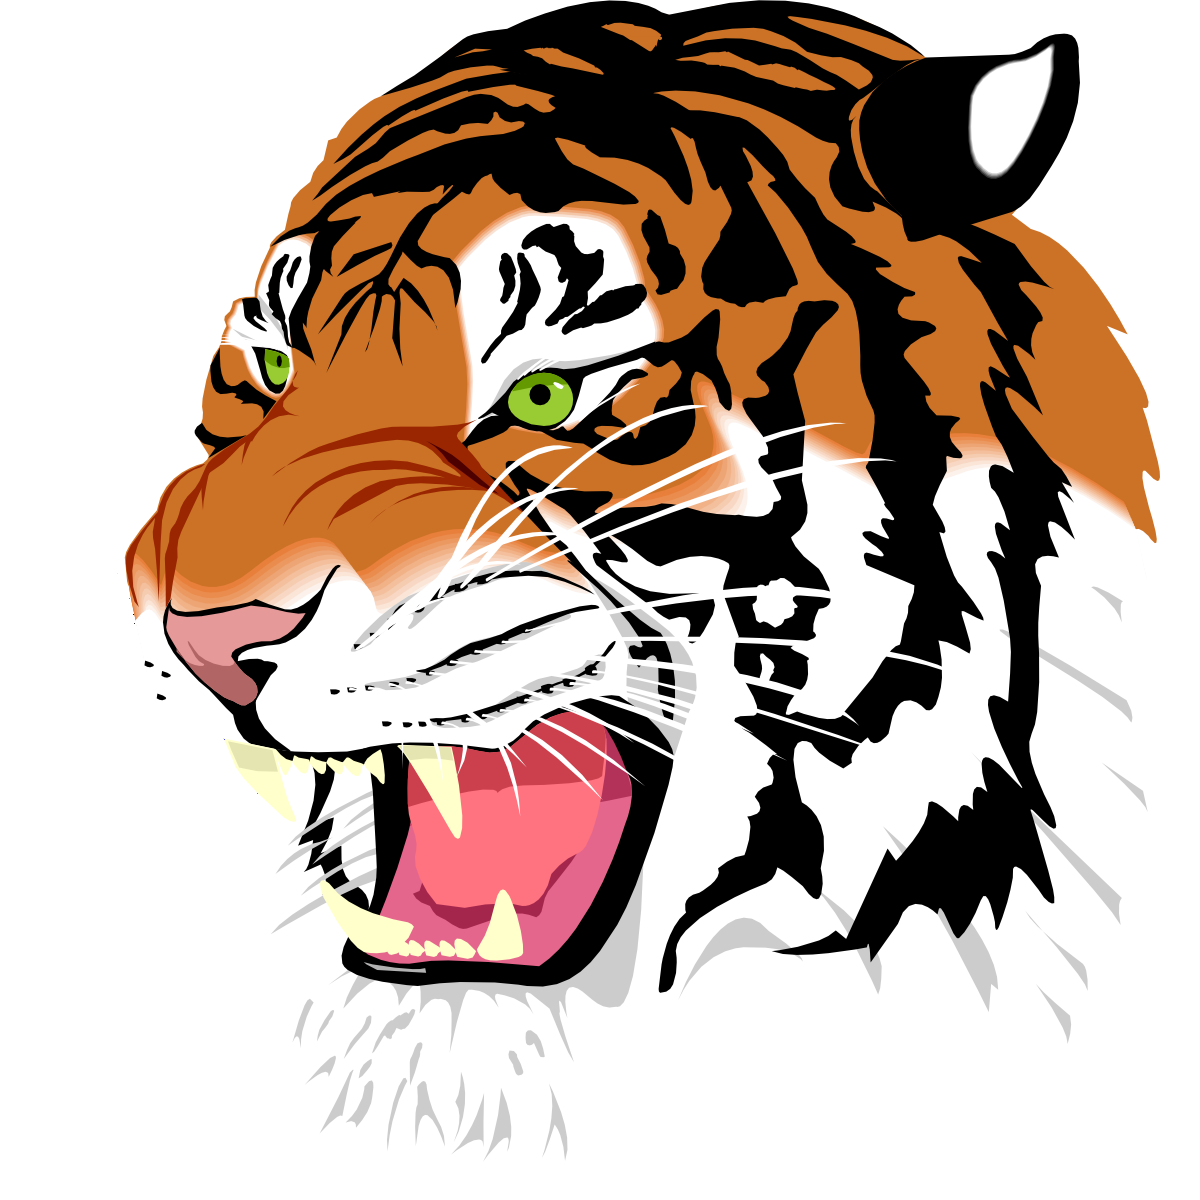
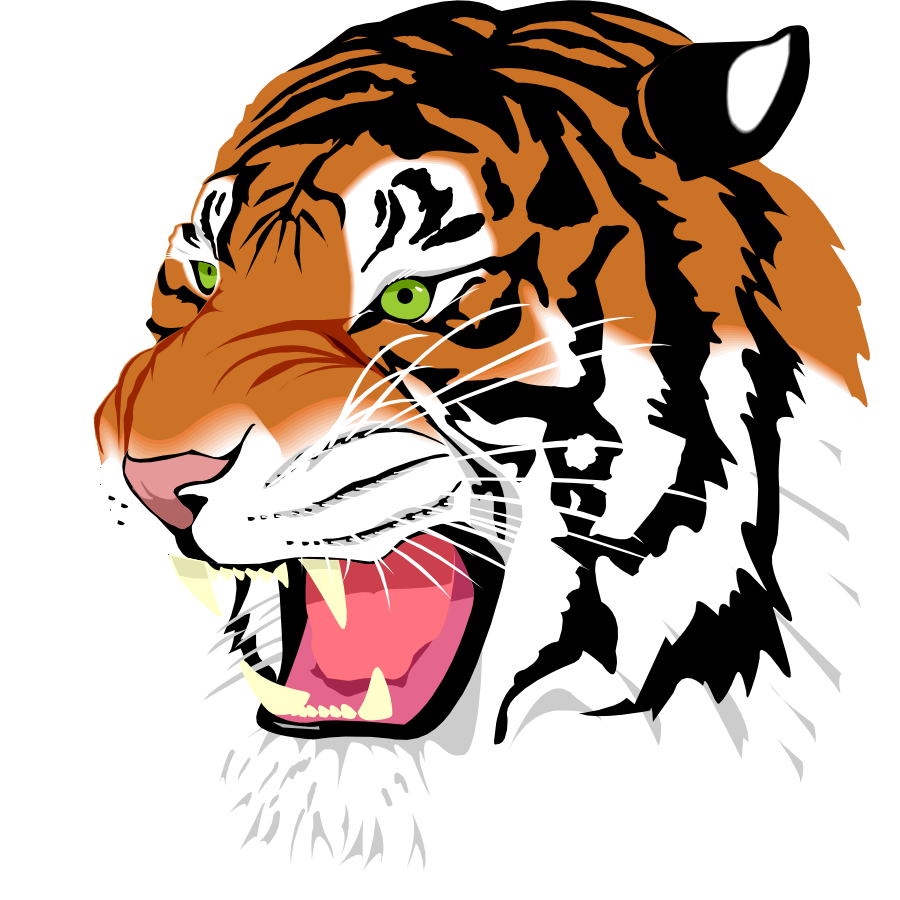
better cli

Changed region(s): [[0.3422, 0.5911, 0.3733, 0.6222]]

diff --git a/src/main.rs b/src/main.rs
@@ -1,5 +1,4 @@
-use std::{env, fmt::Debug, time::Instant};
-
+use clap::Parser;
 use usvg::Color;
 
 use crate::{
@@ -14,22 +13,33 @@ mod raster;
 mod svg;
 mod vello;
 
-fn main() {
-    let args: Vec<String> = env::args().collect();
-    let svg_arg = args
-        .iter()
-        .find(|a| a.ends_with(".svg"))
-        .map(|s| s.as_str())
-        .unwrap_or("tiger.svg");
+#[derive(Parser)]
+struct Args {
+    /// SVG file to render
+    svg: Option<String>,
 
-    if args.iter().any(|a| a == "--vello") {
-        draw_svg_file_vello(svg_arg);
-    } else if args.iter().any(|a| a == "--bench") {
-        bench_svg_file(svg_arg, 1000);
-    } else if let Some(last) = args.last() {
-        if last.ends_with(".svg") {
-            draw_svg_file(last);
-        }
+    /// Render with vello_cpu instead of the scanline rasterizer
+    #[arg(long)]
+    vello: bool,
+
+    /// Benchmark rendering (1000 iterations)
+    #[arg(long)]
+    bench: bool,
+
+    /// Scale factor applied to the svg viewbox size
+    #[arg(long, default_value_t = 1.0)]
+    scale: f32,
+}
+
+fn main() {
+    let args = Args::parse();
+
+    if args.vello {
+        draw_svg_file_vello(args.svg.as_deref().unwrap_or("tiger.svg"), args.scale);
+    } else if args.bench {
+        bench_svg_file(args.svg.as_deref().unwrap_or("tiger.svg"), 1000, args.scale);
+    } else if let Some(svg) = args.svg.as_deref() {
+        draw_svg_file(svg, args.scale);
     } else {
         draw_stuff();
     }

diff --git a/src/svg.rs b/src/svg.rs
@@ -9,29 +9,27 @@ use crate::{
 
 use usvg::tiny_skia_path::PathSegment as UPathSegment;
 
-const WIDTH: u32 = 1200;
-const HEIGHT: u32 = 1200;
-
-fn render_svg(tree: &usvg::Tree) -> Canvas {
-    let mut canvas = Canvas::new(WIDTH, HEIGHT);
-    let (scale, offset) = fit(tree);
-    canvas.transform = Transform { offset, scale };
+fn render_svg(tree: &usvg::Tree, scale: f32) -> Canvas {
+    let (width, height) = scaled_size(tree, scale);
+    let mut canvas = Canvas::new(width, height);
+    canvas.transform = Transform {
+        offset: point(0.0, 0.0),
+        scale,
+    };
     walk(tree.root(), &mut canvas);
     canvas
 }
 
-/// fit the svg into the canvas, centered
-fn fit(tree: &usvg::Tree) -> (f32, Point) {
+/// viewbox size scaled, rounded up to whole pixels
+fn scaled_size(tree: &usvg::Tree, scale: f32) -> (u32, u32) {
     let size = tree.size();
-    let scale = (WIDTH as f32 / size.width()).min(HEIGHT as f32 / size.height());
-    let offset = point(
-        (WIDTH as f32 - size.width() * scale) / 2.0,
-        (HEIGHT as f32 - size.height() * scale) / 2.0,
-    );
-    (scale, offset)
+    (
+        (size.width() * scale).ceil() as u32,
+        (size.height() * scale).ceil() as u32,
+    )
 }
 
-pub fn draw_svg_file(filename: &str) {
+pub fn draw_svg_file(filename: &str, scale: f32) {
     let svg = fs::read_to_string(filename).unwrap();
     let name = filename.split(".").next().unwrap();
 
@@ -42,10 +40,10 @@ pub fn draw_svg_file(filename: &str) {
     let tree = usvg::Tree::from_str(&svg, &opt).unwrap();
 
     let now = Instant::now();
-    let (scale, _) = fit(&tree);
-    println!("Drawing {filename} at {WIDTH}x{HEIGHT} scale={scale:.3}");
+    let (width, height) = scaled_size(&tree, scale);
+    println!("Drawing {filename} at {width}x{height} scale={scale:.3}");
 
-    let canvas = render_svg(&tree);
+    let canvas = render_svg(&tree, scale);
 
     let done = Instant::now();
     let duration = done - now;
@@ -54,7 +52,7 @@ pub fn draw_svg_file(filename: &str) {
     canvas.save(&format!("{name}.png"));
 }
 
-pub fn bench_svg_file(filename: &str, iterations: usize) {
+pub fn bench_svg_file(filename: &str, iterations: usize, scale: f32) {
     let svg = fs::read_to_string(filename).unwrap();
     let opt = usvg::Options {
         ..usvg::Options::default()
@@ -62,7 +60,7 @@ pub fn bench_svg_file(filename: &str, iterations: usize) {
     let tree = usvg::Tree::from_str(&svg, &opt).unwrap();
 
     // warmup
-    let _ = render_svg(&tree);
+    let _ = render_svg(&tree, scale);
 
     let mut total = std::time::Duration::ZERO;
     let mut min = std::time::Duration::MAX;
@@ -70,7 +68,7 @@ pub fn bench_svg_file(filename: &str, iterations: usize) {
 
     for _ in 0..iterations {
         let start = std::time::Instant::now();
-        let _ = render_svg(&tree);
+        let _ = render_svg(&tree, scale);
         let elapsed = start.elapsed();
 
         total += elapsed;

diff --git a/src/vello.rs b/src/vello.rs
@@ -9,22 +9,19 @@ use vello_cpu::{
 
 use usvg::tiny_skia_path::PathSegment as UPathSegment;
 
-pub fn draw_svg_file_vello(filename: &str) {
+pub fn draw_svg_file_vello(filename: &str, scale: f32) {
     let svg = fs::read_to_string(filename).unwrap();
     let name = filename.split('.').next().unwrap();
 
     let opt = usvg::Options::default();
     let tree = usvg::Tree::from_str(&svg, &opt).unwrap();
 
-    let width: u16 = 1200;
-    let height: u16 = 1200;
-
-    // fit the svg into the canvas, centered
+    // render at viewbox size scaled, rounded up to whole pixels
     let size = tree.size();
-    let scale = (width as f64 / size.width() as f64).min(height as f64 / size.height() as f64);
-    let tx = (width as f64 - size.width() as f64 * scale) / 2.0;
-    let ty = (height as f64 - size.height() as f64 * scale) / 2.0;
-    let view = Affine::translate((tx, ty)) * Affine::scale(scale);
+    let scale = scale as f64;
+    let width = (size.width() as f64 * scale).ceil() as u16;
+    let height = (size.height() as f64 * scale).ceil() as u16;
+    let view = Affine::scale(scale);
 
     println!("Drawing {filename} with vello_cpu at {width}x{height} scale={scale:.3}");
     let now = Instant::now();